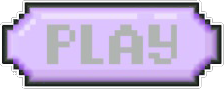
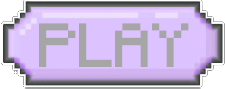
Finished up graphics, cleaned up some code and other small stuff..

diff --git a/src/Main/java/Settings.java b/src/Main/java/Settings.java
@@ -7,37 +7,71 @@ import java.io.InputStream;
 
 public class Settings extends JPanel {
     private Image background;
+    private ImageIcon muteIcon, muteIconHovered, unmutedIcon, unmutedIconHovered;
+    JButton mute;
 
     public Settings(){
         this.setPreferredSize(new Dimension(350, 350));
-        JButton back = new JButton("Back");
 
+        ImageIcon backIcon = new ImageIcon(getClass().getResource("Images/back-button2.png"));
+        ImageIcon backIconHovered = new ImageIcon(getClass().getResource("Images/back-button-hovered2.png"));
+
+        JButton back = new JButton(backIcon);
+        back.setRolloverIcon(backIconHovered);
+
+        back.setMinimumSize(new Dimension(92, 40));
+        back.setMaximumSize(new Dimension(92, 40));
+        back.setPreferredSize(new Dimension(92, 40));
+        back.setBackground(Color.BLACK);
+        back.setBorderPainted(false);
         back.addActionListener(e -> Gamestate.state = Gamestate.MAINMENU);
 
-        back.setPreferredSize(new Dimension(120, 30));
-        back.setMaximumSize(new Dimension(120, 30));
-        back.setForeground(new Color(205, 58, 218));
+        muteIcon = new ImageIcon(getClass().getResource("Images/mute2.png"));
+        muteIconHovered = new ImageIcon(getClass().getResource("Images/mute-hovered2.png"));
 
-        JButton mute = new JButton("Mute Music");
+        unmutedIcon = new ImageIcon(getClass().getResource("Images/unmuted2.png"));
+        unmutedIconHovered = new ImageIcon(getClass().getResource("Images/unmuted-hovered2.png"));
 
-        mute.setPreferredSize(new Dimension(120, 30));
-        mute.setMaximumSize(new Dimension(120, 30));
-        mute.setForeground(new Color(205, 58, 218));
+        mute = new JButton(unmutedIcon);
+        mute.setRolloverIcon(unmutedIconHovered);
+
+        mute.setMinimumSize(new Dimension(54, 50));
+        mute.setPreferredSize(new Dimension(54, 50));
+        mute.setMaximumSize(new Dimension(54, 50));
+        mute.setBorderPainted(false);
+        mute.setBackground(Color.BLACK);
+        mute.addActionListener(e -> {
+            changeMuteStatus();
+        });
 
         GridBagConstraints c = new GridBagConstraints();
         setLayout(new GridBagLayout());
 
-        c.gridy = 1;
-        add(Box.createRigidArea(new Dimension(0, 30)), c);
+        c.gridy = 0;
+        add(Box.createRigidArea(new Dimension(0, 45)), c);
 
-        c.gridy = 2;
+        c.gridy = 1;
         add(mute, c);
 
-        c.gridy = 3;
+        c.gridy = 2;
         add(Box.createRigidArea(new Dimension(0,30)), c);
 
-        c.gridy = 4;
+        c.gridy = 3;
         add(back, c);
+    }
+
+    private void changeMuteStatus() {
+        if(Entity.muted){
+            mute.setIcon(unmutedIcon);
+            mute.setRolloverIcon(unmutedIconHovered);
+            Entity.muted = false;
+        }
+
+        else if(!Entity.muted){
+            mute.setIcon(muteIcon);
+            mute.setRolloverIcon(muteIconHovered);
+            Entity.muted = true;
+        }
     }
 
     /***

diff --git a/src/Main/java/Menu.java b/src/Main/java/Menu.java
@@ -1,3 +1,6 @@
+import Exceptions.LevelLockedError;
+
+
 import javax.imageio.ImageIO;
 import javax.swing.*;
 import java.awt.*;
@@ -412,7 +415,7 @@ public class Menu extends JPanel {
 
             case 2:
                 if(user.getLevel() < numLevel){
-                    throw new LevelTooLowError("Level locked, reach level " + numLevel + " to unlock it");
+                    throw new LevelLockedError("Level locked, reach level " + numLevel + " to unlock it");
                 }
                 else{
                     Gamestate.state = Gamestate.PLAYING;
@@ -422,7 +425,7 @@ public class Menu extends JPanel {
 
             case 3:
                 if(user.getLevel() < numLevel){
-                    throw new LevelTooLowError("Level locked, reach level " + numLevel + " to unlock it");
+                    throw new LevelLockedError("Level locked, reach level " + numLevel + " to unlock it");
                 }
                 else{
                     Gamestate.state = Gamestate.PLAYING;
@@ -432,7 +435,7 @@ public class Menu extends JPanel {
 
             case 4:
                 if(user.getLevel() < numLevel){
-                    throw new LevelTooLowError("Level locked, reach level " + numLevel + " to unlock it");
+                    throw new LevelLockedError("Level locked, reach level " + numLevel + " to unlock it");
                 }
                 else{
                     Gamestate.state = Gamestate.PLAYING;

diff --git a/src/Main/java/Entity.java b/src/Main/java/Entity.java
@@ -53,8 +53,6 @@ public abstract class Entity {
     protected boolean falling = false;
     protected boolean jumping = false;
 
-    public static boolean win = false;
-
     protected Rectangle2D.Float hitbox;
     public int[][] lvlData;
     public int scale = 3;
@@ -65,6 +63,7 @@ public abstract class Entity {
                              //        not to establish physics => -1 = sx; 0= center; 1=dx
 
     public Sound sound = new Sound();
+    public static boolean muted = false;
 
     //Constructor
     public Entity(int x, int y, int speed, int jumpStrength, int weight, Skin skin) {
@@ -86,8 +85,10 @@ public abstract class Entity {
      * @param x index of the sound that wants to be played. Refers to the array in the Sound class
      */
     public void playSFX(int x){
-        sound.setFile(x);
-        sound.play();
+        if(!muted){
+            sound.setFile(x);
+            sound.play();
+        }
     }
 
     public void stopMusic(){
@@ -226,7 +227,6 @@ public abstract class Entity {
      * teleports the player to the beginning of the level
      */
     public void teleportToBeginning(){
-        win = false;
         x = 200;
         y = 300;
         xAcc = 0;
@@ -241,7 +241,6 @@ public abstract class Entity {
         //14240
         if(x>=14084){
             playSFX(1);
-
             try {
                 Menu.updateUserAfterWin();
             } catch (IOException e) {

diff --git a/src/Main/java/Login.java b/src/Main/java/Login.java
@@ -1,7 +1,9 @@
+import Exceptions.InvalidUsernameError;
+import Exceptions.WrongPasswordError;
+
 import javax.imageio.ImageIO;
 import javax.swing.*;
 import java.awt.*;
-import java.io.File;
 import java.io.IOException;
 import java.io.InputStream;
 
@@ -146,8 +148,8 @@ public class Login extends Registration {
      * @param passwordEntered: password provided by the player in textField
      * @return = true if the username and the password entered by the player match one of the User's username and password,
      *              false otherwise;
-     * @throws WrongPasswordError: if the password provided by the player does not match the one registered and associated to the username
-     * @throws InvalidUsernameError: if the username provided by the player is not registered
+     * @throws WrongPasswordError : if the password provided by the player does not match the one registered and associated to the username
+     * @throws InvalidUsernameError : if the username provided by the player is not registered
      */
     @Override
     protected boolean checkUserInArray(User[] userArray, String usernameEntered, String passwordEntered) throws WrongPasswordError, InvalidUsernameError {

diff --git a/src/Main/java/Signup.java b/src/Main/java/Signup.java
@@ -1,3 +1,6 @@
+import Exceptions.InvalidPasswordError;
+import Exceptions.InvalidUsernameError;
+
 import javax.imageio.ImageIO;
 import javax.swing.*;
 import java.awt.*;
@@ -158,7 +161,14 @@ public class Signup extends Registration {
         add(errorPanel, constraints);
     }
 
-    //Processes the press of the signUpButton
+    /***
+     * Processes the press of the signUpButton by checking input values with methods listed below
+     * @param window: window on which elements will be painted on
+     * @param userArray: array containing all registered Users
+     * @param usernameEntered: username provided by the player in textField
+     * @param passwordEntered: password provided by the player in textField
+     * @throws IOException: thrown because "InvalidUsernameError()" and "InvalidPasswordError()" are children of the IOException class
+     */
     public void createButtonPress(JFrame window, User[] userArray, String usernameEntered, String passwordEntered) throws IOException {
 
         //Checks that the username field is not empty

diff --git a/src/Main/java/GameWindow.java b/src/Main/java/GameWindow.java
@@ -55,6 +55,9 @@ public class GameWindow {
         settingsWindow.setLocationRelativeTo(null);
 
         JButton play = new JButton("Play");
+        play.setPreferredSize(new Dimension(103,40));
+        play.setMinimumSize(new Dimension(103, 40));
+        play.setMaximumSize(new Dimension(103, 40));
         Commands c = new Commands(play);
         play.addActionListener(e-> Gamestate.state = Gamestate.PLAYING);
 

diff --git a/src/Main/java/Commands.java b/src/Main/java/Commands.java
@@ -19,9 +19,6 @@ public class Commands extends JPanel {
         play.setRolloverIcon(playIconHovered);
         play.setPressedIcon(playIconPressed);
 
-        play.setPreferredSize(new Dimension(103, 40));
-        play.setMinimumSize(new Dimension(103, 40));
-        play.setMaximumSize(new Dimension(103, 40));
         play.setBackground(Color.BLACK);
         play.setBorderPainted(false);
 

diff --git a/src/Main/java/Exceptions/WrongPasswordError.java b/src/Main/java/Exceptions/WrongPasswordError.java
@@ -1,0 +1,14 @@
+package Exceptions;
+
+import java.io.IOException;
+
+public class WrongPasswordError extends IOException {
+
+    /***
+     * Thrown when the username entered matches with one registered, but the password does not
+     * @param m: String to be displayed when the exception is thrown
+     */
+    public WrongPasswordError (String m){
+        super(m);
+    }
+}

diff --git a/src/Main/java/Exceptions/InvalidUsernameError.java b/src/Main/java/Exceptions/InvalidUsernameError.java
@@ -1,0 +1,14 @@
+package Exceptions;
+
+import java.io.IOException;
+
+public class InvalidUsernameError extends IOException {
+
+    /***
+     * Thrown when the username does not match the requirements
+     * @param m: String to be displayed when the exception is thrown
+     */
+    public InvalidUsernameError (String m){
+        super(m);
+    }
+}

diff --git a/src/Main/java/Exceptions/InvalidPasswordError.java b/src/Main/java/Exceptions/InvalidPasswordError.java
@@ -1,0 +1,14 @@
+package Exceptions;
+
+import java.io.IOException;
+
+public class InvalidPasswordError extends IOException {
+
+    /***
+     * Thrown when the password does not match the requirements
+     * @param m: String to be displayed when the exception is thrown
+     */
+    public InvalidPasswordError(String m){
+        super(m);
+    }
+}

diff --git a/src/Main/java/Exceptions/LevelLockedError.java b/src/Main/java/Exceptions/LevelLockedError.java
@@ -1,0 +1,12 @@
+package Exceptions;
+
+public class LevelLockedError extends ArithmeticException {
+
+    /***
+     * Thrown when the level selected is not unlocked
+     * @param m: String to be displayed when the exception is thrown
+     */
+    public LevelLockedError(String m){
+        super(m);
+    }
+}

diff --git a/src/test/java/LoginTest.java b/src/test/java/LoginTest.java
@@ -1,7 +1,8 @@
 
+import Exceptions.InvalidUsernameError;
+import Exceptions.WrongPasswordError;
 import org.junit.jupiter.api.Test;
 import javax.swing.*;
-import java.io.*;
 
 import static org.junit.jupiter.api.Assertions.*;
 
